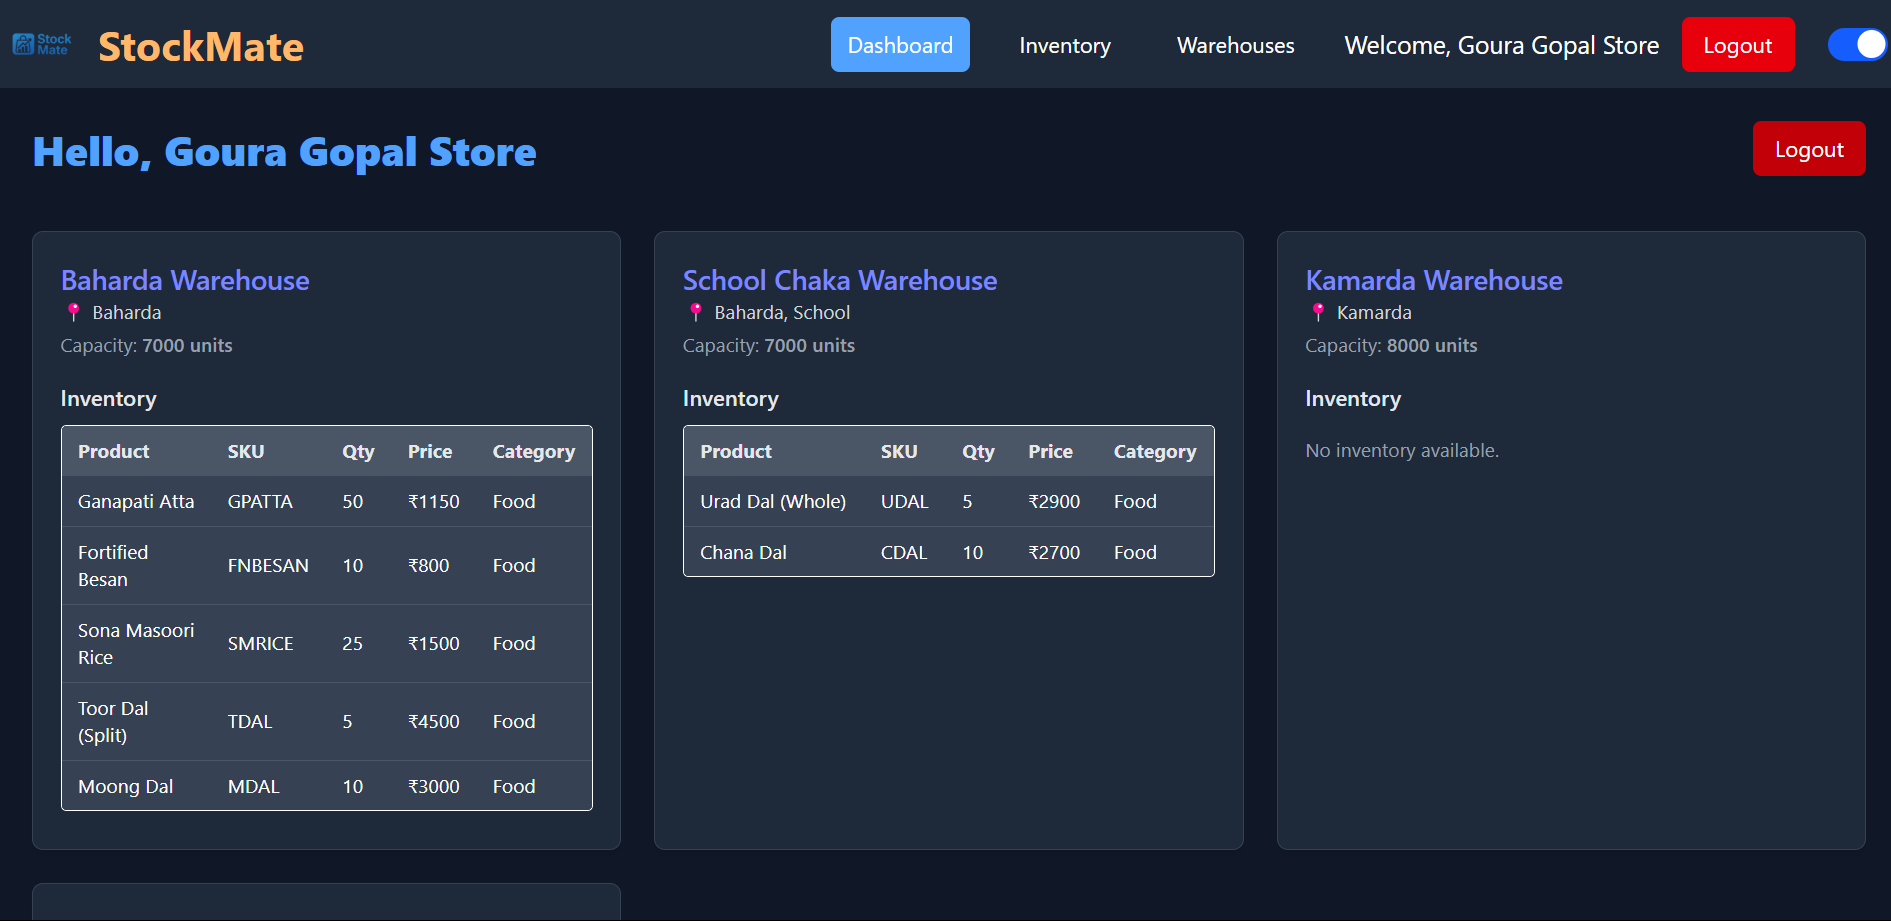
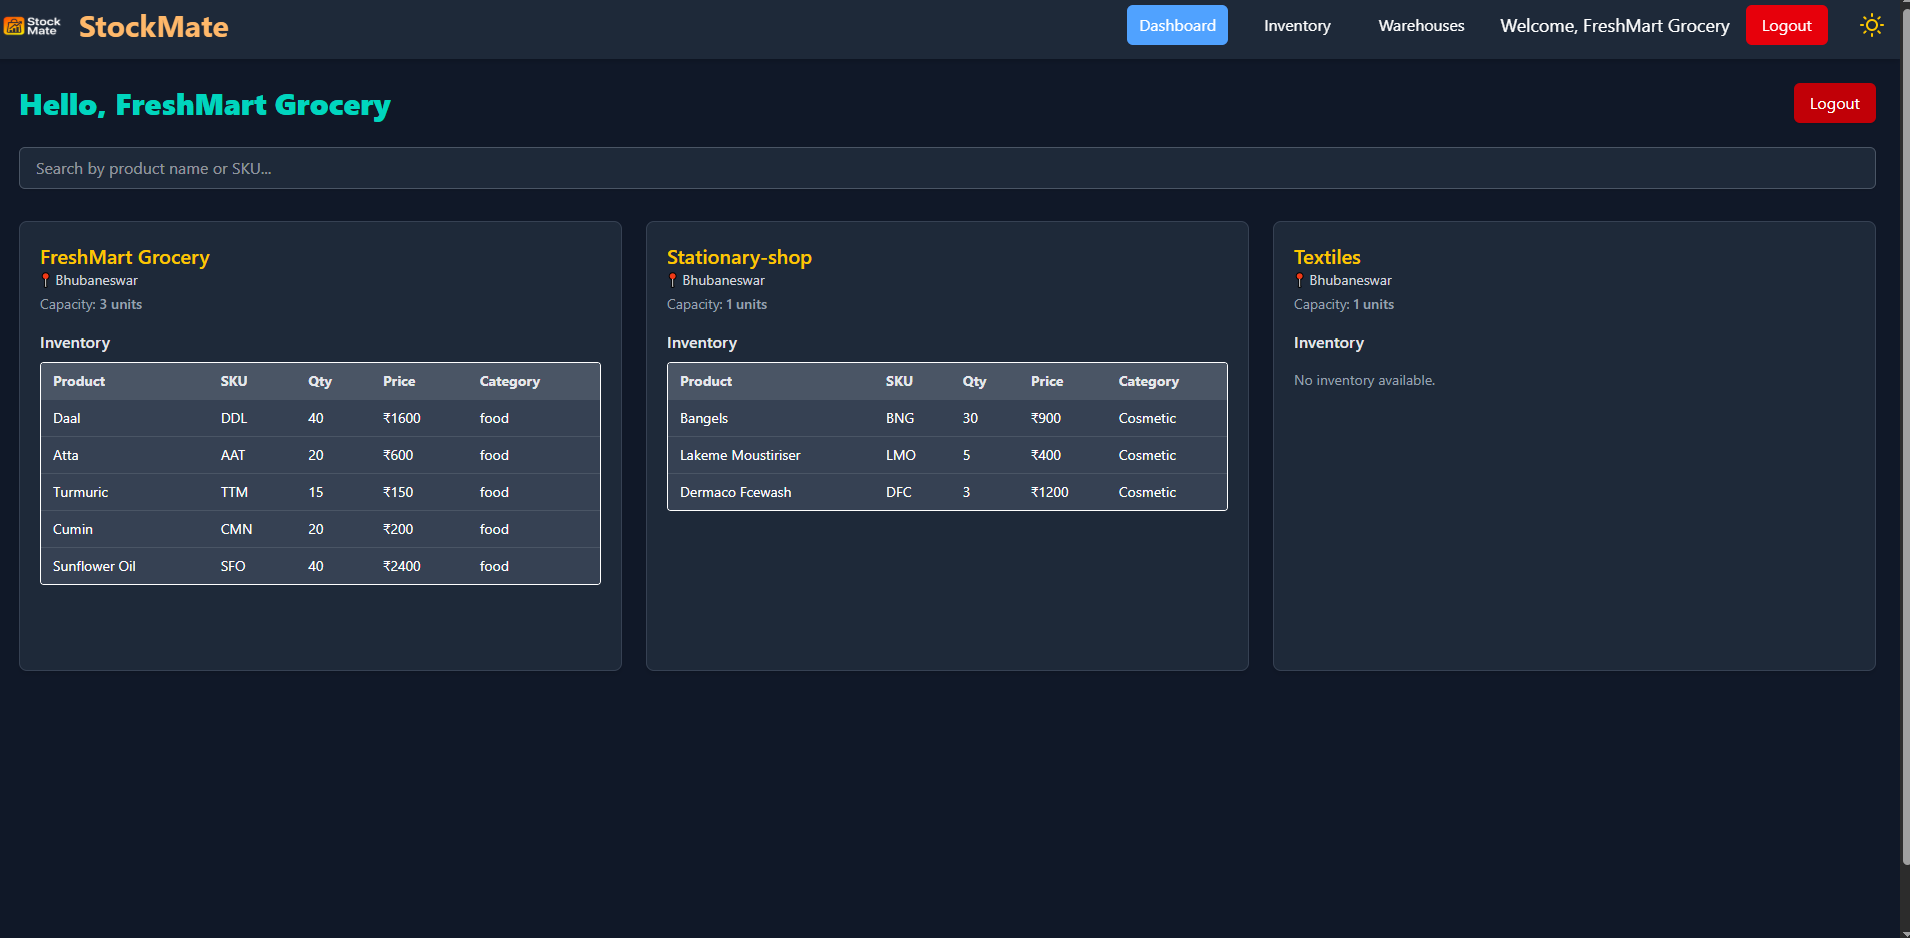
change dashboard picture

diff --git a/StockMateOwnProject/frontend/src/pages/Welcome.jsx b/StockMateOwnProject/frontend/src/pages/Welcome.jsx
@@ -75,7 +75,7 @@ const Welcome = () => {
           </div>
           <img
             className="mt-12 mx-auto rounded-xl w-full max-w-[1200px]"
-            src="/update dasbord (1).png"
+            src="/dashboard.png"
             alt="Dashboard Preview"
           />
         </div>
